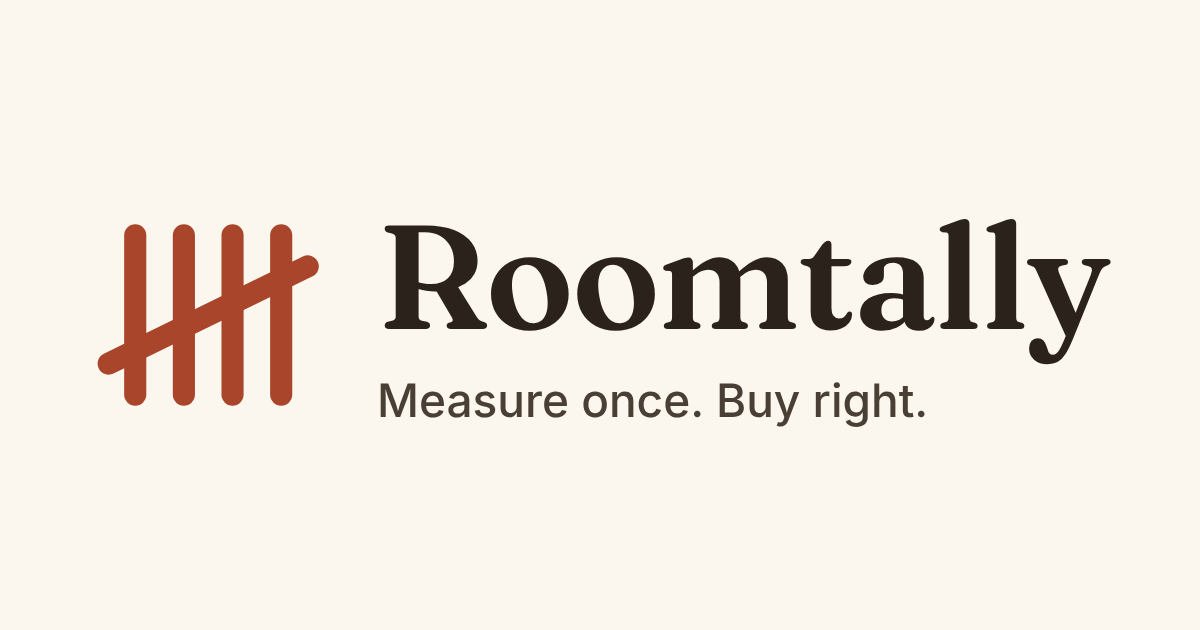
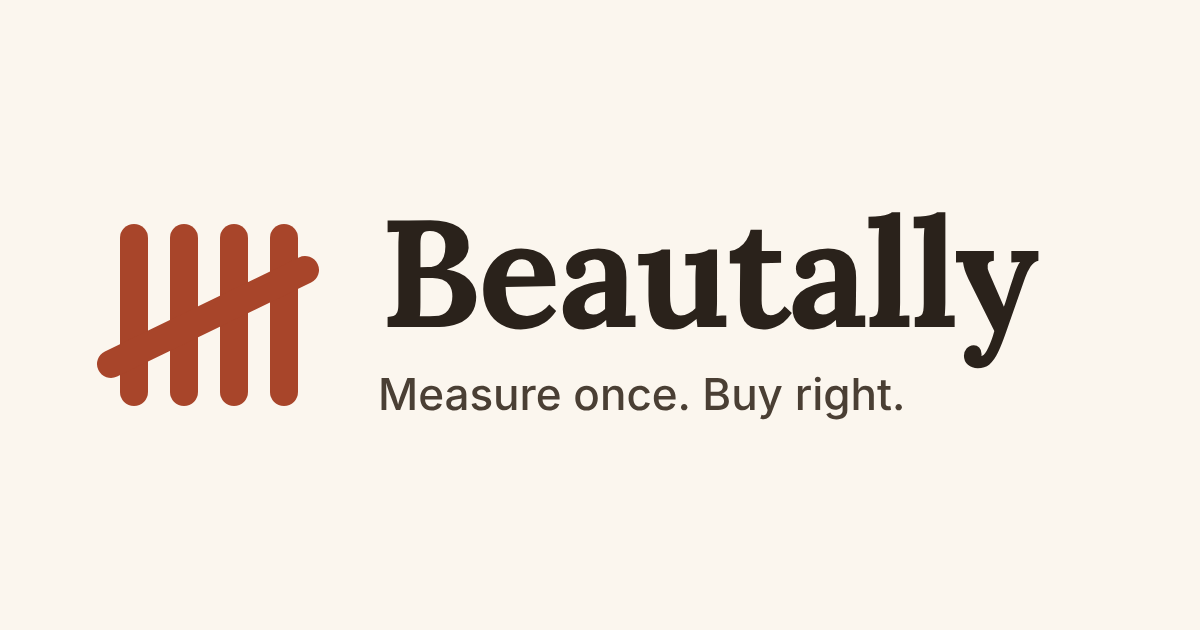
chore: rename the product from Roomtally to Beautally
Updates the name in code, copy, docs, storage and cookie keys, data hooks,
workflows, wrangler and package names, the favicon label and the OG image.

Claude-Session: https://claude.ai/code/session_01DXY2iEmp741HyAvm66axxg

diff --git a/tests/unit/schema.test.ts b/tests/unit/schema.test.ts
@@ -22,14 +22,14 @@ import {
 } from '../../src/lib/seo/meta';
 import { ROOM_TYPES } from '../../src/data/rooms';
 
-const ORIGIN = 'https://roomtally.example';
+const ORIGIN = 'https://beautally.example';
 
 describe('websiteSchema', () => {
   it('has the required fields', () => {
     const s = websiteSchema('A description');
     expect(s['@context']).toBe('https://schema.org');
     expect(s['@type']).toBe('WebSite');
-    expect(s.name).toBe('Roomtally');
+    expect(s.name).toBe('Beautally');
     expect(s.url).toBe(`${ORIGIN}/`);
     expect(s.description).toBe('A description');
   });
@@ -98,7 +98,7 @@ describe('articleSchema', () => {
     expect(s.headline).toBe(base.headline);
     expect(s.url).toBe(`${ORIGIN}/guides/measure-a-room/`);
     expect(s.datePublished).toBe('2026-01-05');
-    expect(s.author).toEqual({ '@type': 'Organization', name: 'Roomtally', url: ORIGIN });
+    expect(s.author).toEqual({ '@type': 'Organization', name: 'Beautally', url: ORIGIN });
   });
   it('uses the publish date when there is no modified date', () => {
     expect(articleSchema(base).dateModified).toBe('2026-01-05');
@@ -150,7 +150,7 @@ describe('canonicalUrl', () => {
 describe('page meta', () => {
   it('home uses the exact title and description from the spec', () => {
     const m = homeMeta();
-    expect(m.title).toBe('Roomtally: Paint, Flooring & Tile Calculator in One List');
+    expect(m.title).toBe('Beautally: Paint, Flooring & Tile Calculator in One List');
     expect(m.description).toBe(HOME_DESCRIPTION);
     expect(m.canonical).toBe(`${ORIGIN}/`);
     expect(m.twitterCard).toBe('summary_large_image');
@@ -162,13 +162,13 @@ describe('page meta', () => {
   });
   it('calculator titles follow the pattern', () => {
     const m = calculatorMeta('Flooring', 'Works out flooring.', '/flooring-calculator/');
-    expect(m.title).toBe('Flooring Calculator: How Much Do I Need? | Roomtally');
+    expect(m.title).toBe('Flooring Calculator: How Much Do I Need? | Beautally');
     expect(m.canonical).toBe(`${ORIGIN}/flooring-calculator/`);
   });
   it('room titles follow the pattern and every room type fits', () => {
     for (const room of ROOM_TYPES) {
       const m = roomMeta(room.name, room.intro, `/paint-calculator/${room.slug}/`);
-      expect(m.title).toBe(`${room.name} Paint Calculator: How Much Paint? | Roomtally`);
+      expect(m.title).toBe(`${room.name} Paint Calculator: How Much Paint? | Beautally`);
       expect(m.title.length).toBeLessThanOrEqual(TITLE_MAX);
       expect(m.description.length).toBeLessThanOrEqual(DESCRIPTION_MAX);
     }
@@ -177,8 +177,8 @@ describe('page meta', () => {
     const long = 'A very long guide title that would go well past the sixty character limit';
     const g = guideMeta(long, 'Summary.', '/guides/long/');
     expect(g.title.length).toBeLessThanOrEqual(TITLE_MAX);
-    expect(g.title.endsWith(' | Roomtally')).toBe(true);
-    expect(legalMeta('Privacy', 'How we handle data.', '/privacy/').title).toBe('Privacy | Roomtally');
+    expect(g.title.endsWith(' | Beautally')).toBe(true);
+    expect(legalMeta('Privacy', 'How we handle data.', '/privacy/').title).toBe('Privacy | Beautally');
   });
   it('shortens an over-long description to 155 characters', () => {
     const m = guideMeta('Guide', 'word '.repeat(60), '/guides/g/');

diff --git a/tests/unit/ads-consent.test.ts b/tests/unit/ads-consent.test.ts
@@ -61,10 +61,10 @@ async function startConsent() {
 }
 
 function adScripts(): HTMLScriptElement[] {
-  return Array.from(document.querySelectorAll<HTMLScriptElement>('script[data-roomtally-ads]'));
+  return Array.from(document.querySelectorAll<HTMLScriptElement>('script[data-beautally-ads]'));
 }
 function beaconScripts(): HTMLScriptElement[] {
-  return Array.from(document.querySelectorAll<HTMLScriptElement>('script[data-roomtally-beacon]'));
+  return Array.from(document.querySelectorAll<HTMLScriptElement>('script[data-beautally-beacon]'));
 }
 function addSlot(name: string, parent: Element = document.body): HTMLElement {
   const div = document.createElement('div');
@@ -389,13 +389,13 @@ describe('analytics: silent without consent', () => {
     const sink = vi.fn();
     const heard = vi.fn();
     setTrackSink(sink);
-    window.addEventListener('roomtally:track', heard);
+    window.addEventListener('beautally:track', heard);
     await startConsent();
     track('room_added', { room_count: 2 });
     expect(isAnalyticsAllowed()).toBe(false);
     expect(sink).not.toHaveBeenCalled();
     expect(heard).not.toHaveBeenCalled();
-    window.removeEventListener('roomtally:track', heard);
+    window.removeEventListener('beautally:track', heard);
   });
 
   it('track does nothing when only advertising was accepted', async () => {
@@ -464,12 +464,12 @@ describe('analytics: after consent', () => {
 
   it('announces the event on window', async () => {
     const heard = vi.fn();
-    window.addEventListener('roomtally:track', heard);
+    window.addEventListener('beautally:track', heard);
     await allowed();
     track('data_cleared');
     expect(heard).toHaveBeenCalledTimes(1);
     expect((heard.mock.calls[0]![0] as CustomEvent).detail).toEqual({ name: 'data_cleared', props: {} });
-    window.removeEventListener('roomtally:track', heard);
+    window.removeEventListener('beautally:track', heard);
   });
 
   it('drops values that are not plain strings, numbers or booleans', async () => {

diff --git a/src/lib/ui/consent.ts b/src/lib/ui/consent.ts
@@ -108,7 +108,7 @@ function syncFromLibrary(saved: boolean): void {
 /** Banner text and categories. Static strings only. */
 export function buildConsentConfig(onSync: (saved: boolean) => void): Record<string, unknown> {
   return {
-    cookie: { name: 'roomtally_consent' },
+    cookie: { name: 'beautally_consent' },
     guiOptions: {
       consentModal: { layout: 'box', position: 'bottom right', equalWeightButtons: true },
       preferencesModal: { layout: 'box' },
@@ -132,7 +132,7 @@ export function buildConsentConfig(onSync: (saved: boolean) => void): Record<str
           consentModal: {
             title: 'Your privacy choices',
             description:
-              'Roomtally works without cookies. With your permission we use anonymous analytics to improve the site, and ads to keep it free. Your rooms never leave your browser.',
+              'Beautally works without cookies. With your permission we use anonymous analytics to improve the site, and ads to keep it free. Your rooms never leave your browser.',
             acceptAllBtn: 'Accept all',
             acceptNecessaryBtn: 'Reject all',
             showPreferencesBtn: 'Choose',
@@ -159,7 +159,7 @@ export function buildConsentConfig(onSync: (saved: boolean) => void): Record<str
               {
                 title: 'Advertising',
                 description:
-                  'Lets Google show ads that keep Roomtally free. Off unless you accept. Ads never appear in the form or your results.',
+                  'Lets Google show ads that keep Beautally free. Off unless you accept. Ads never appear in the form or your results.',
                 linkedCategory: CAT_ADVERTISEMENT,
               },
               {

diff --git a/tests/e2e/consent.spec.ts b/tests/e2e/consent.spec.ts
@@ -31,7 +31,7 @@ const banner = (page: Page) => page.getByRole('button', { name: 'Accept all' }).
 
 async function consentCookie(page: Page): Promise<string | null> {
   const cookies = await page.context().cookies();
-  return cookies.find((cookie) => cookie.name === 'roomtally_consent')?.value ?? null;
+  return cookies.find((cookie) => cookie.name === 'beautally_consent')?.value ?? null;
 }
 
 test.describe('before any choice', () => {
@@ -42,8 +42,8 @@ test.describe('before any choice', () => {
     await page.waitForLoadState('networkidle');
 
     expect(seen).toEqual([]);
-    await expect(page.locator('script[data-roomtally-ads]')).toHaveCount(0);
-    await expect(page.locator('script[data-roomtally-beacon]')).toHaveCount(0);
+    await expect(page.locator('script[data-beautally-ads]')).toHaveCount(0);
+    await expect(page.locator('script[data-beautally-beacon]')).toHaveCount(0);
     await expect(page.locator('ins.adsbygoogle')).toHaveCount(0);
   });
 
@@ -108,12 +108,12 @@ test.describe('Accept all', () => {
       await expect.poll(() => consentCookie(page)).toContain('advertisement');
 
       if (ADS_BUILT) {
-        await expect(page.locator('script[data-roomtally-ads]')).toHaveCount(1);
+        await expect(page.locator('script[data-beautally-ads]')).toHaveCount(1);
         await expect.poll(() => seen.some((url) => url.includes('adsbygoogle.js'))).toBe(true);
       } else {
         await page.waitForLoadState('networkidle');
         expect(seen).toEqual([]);
-        await expect(page.locator('script[data-roomtally-ads]')).toHaveCount(0);
+        await expect(page.locator('script[data-beautally-ads]')).toHaveCount(0);
       }
     },
   );

diff --git a/src/lib/ui/analytics.ts b/src/lib/ui/analytics.ts
@@ -6,7 +6,7 @@
  *
  * Events are delivered to a sink. Cloudflare Web Analytics has no custom events and
  * the site has no backend, so by default an event is only announced on `window` as a
- * `roomtally:track` CustomEvent. A sink can be registered with setTrackSink().
+ * `beautally:track` CustomEvent. A sink can be registered with setTrackSink().
  */
 import { FEATURES } from '../../config/features';
 import { getConsent, onConsentChange } from './consent';
@@ -29,7 +29,7 @@ export type TrackSink = (name: EventName, props: Record<string, EventValue>) => 
 
 const MAX_STRING = 100;
 const BEACON_SRC = 'https://static.cloudflareinsights.com/beacon.min.js';
-const BEACON_ATTR = 'data-roomtally-beacon';
+const BEACON_ATTR = 'data-beautally-beacon';
 
 interface AnalyticsOptions {
   enabled: boolean;
@@ -78,7 +78,7 @@ export function track(name: EventName, props: EventProps = {}): void {
   try {
     sink?.(name, clean);
     if (typeof window !== 'undefined') {
-      window.dispatchEvent(new CustomEvent('roomtally:track', { detail: { name, props: clean } }));
+      window.dispatchEvent(new CustomEvent('beautally:track', { detail: { name, props: clean } }));
     }
   } catch {
     // Analytics must never break the calculator (TDD §G.47).

diff --git a/tests/e2e/home-flow.spec.ts b/tests/e2e/home-flow.spec.ts
@@ -150,7 +150,7 @@ test.describe('home page: enter a room, get one list', () => {
       return { calls: record.__printCalls, header: record.__printHeader };
     });
     expect(printed.calls).toBe(1);
-    expect(printed.header).toContain('Roomtally shopping list');
+    expect(printed.header).toContain('Beautally shopping list');
 
     // The browser reports the end of printing; the added header goes away.
     await page.evaluate(() => window.dispatchEvent(new Event('afterprint')));
@@ -191,7 +191,7 @@ test.describe('storage problems', () => {
 
   test('STO_002: resets damaged saved data with a friendly note', async ({ page }) => {
     await page.addInitScript(() => {
-      window.localStorage.setItem('roomtally:project:v1', '{"schemaVersion":1,"rooms":"nope"}');
+      window.localStorage.setItem('beautally:project:v1', '{"schemaVersion":1,"rooms":"nope"}');
     });
     await page.goto('/');
     await dismissConsent(page);

diff --git a/src/lib/ui/dom.ts b/src/lib/ui/dom.ts
@@ -165,14 +165,14 @@ export function installGlobalErrorHandler(target: Window = window): () => void {
   const onError = (event: ErrorEvent): void => {
     if (event.message === 'Script error.') return;
     if (isThirdParty(event.filename, origin)) return;
-    console.error('Roomtally: unexpected error');
+    console.error('Beautally: unexpected error');
     showBanner();
   };
   const onRejection = (event: PromiseRejectionEvent): void => {
     const reason: unknown = event.reason;
     const stack = reason instanceof Error ? reason.stack : undefined;
     if (isThirdParty(stack, origin)) return;
-    console.error('Roomtally: unexpected rejection');
+    console.error('Beautally: unexpected rejection');
     showBanner();
   };
 

diff --git a/src/lib/state/storage.ts b/src/lib/state/storage.ts
@@ -10,8 +10,8 @@ import type { Project, Region } from '../../types/project';
 import { sanitizeProject } from '../calc/validation';
 import { migrate } from './migrations';
 
-export const PROJECT_KEY = 'roomtally:project:v1';
-export const THEME_KEY = 'roomtally:theme';
+export const PROJECT_KEY = 'beautally:project:v1';
+export const THEME_KEY = 'beautally:theme';
 /** The document stays under 50 KB in normal use; anything over twice that is rejected unread. */
 export const MAX_STORED_CHARS = 100 * 1024;
 

diff --git a/src/lib/seo/meta.ts b/src/lib/seo/meta.ts
@@ -18,9 +18,9 @@ export interface PageMeta {
   twitterCard: 'summary_large_image';
 }
 
-const SUFFIX = ' | Roomtally';
+const SUFFIX = ' | Beautally';
 
-export const HOME_TITLE = 'Roomtally: Paint, Flooring & Tile Calculator in One List';
+export const HOME_TITLE = 'Beautally: Paint, Flooring & Tile Calculator in One List';
 export const HOME_DESCRIPTION =
   'Enter your room once to get a shopping list for paint, flooring, tile and wallpaper, rounded to real pack sizes.';
 

diff --git a/src/config/site.ts b/src/config/site.ts
@@ -4,10 +4,10 @@ export interface NavItem {
 }
 
 const env = (import.meta.env ?? {}) as unknown as Record<string, string | undefined>;
-const rawUrl = env.PUBLIC_SITE_URL ?? 'https://roomtally.example';
+const rawUrl = env.PUBLIC_SITE_URL ?? 'https://beautally.example';
 
 export const SITE = {
-  name: 'Roomtally',
+  name: 'Beautally',
   tagline: 'Measure once. Buy right.',
   /** Canonical origin without a trailing slash. */
   url: rawUrl.replace(/\/+$/, ''),

diff --git a/tests/unit/storage.test.ts b/tests/unit/storage.test.ts
@@ -45,8 +45,8 @@ describe('readProject: empty and valid', () => {
   it('stores under the documented key', () => {
     const storage = createMemoryStorage();
     writeProject(makeProject(), storage);
-    expect(PROJECT_KEY).toBe('roomtally:project:v1');
-    expect(storage.data.has('roomtally:project:v1')).toBe(true);
+    expect(PROJECT_KEY).toBe('beautally:project:v1');
+    expect(storage.data.has('beautally:project:v1')).toBe(true);
   });
 });
 

diff --git a/src/styles/global.css b/src/styles/global.css
@@ -1,5 +1,5 @@
 /*
- * Roomtally design tokens (Design_Brief §A.3-A.5, §B.15-B.17).
+ * Beautally design tokens (Design_Brief §A.3-A.5, §B.15-B.17).
  * Tailwind v4: tokens live in @theme. Light is the default for everyone; dark applies
  * only when <html data-theme="dark"> is set by the theme toggle.
  * Adapted from the structure of onwidget/astrowind src/assets/styles/tailwind.css (MIT).
